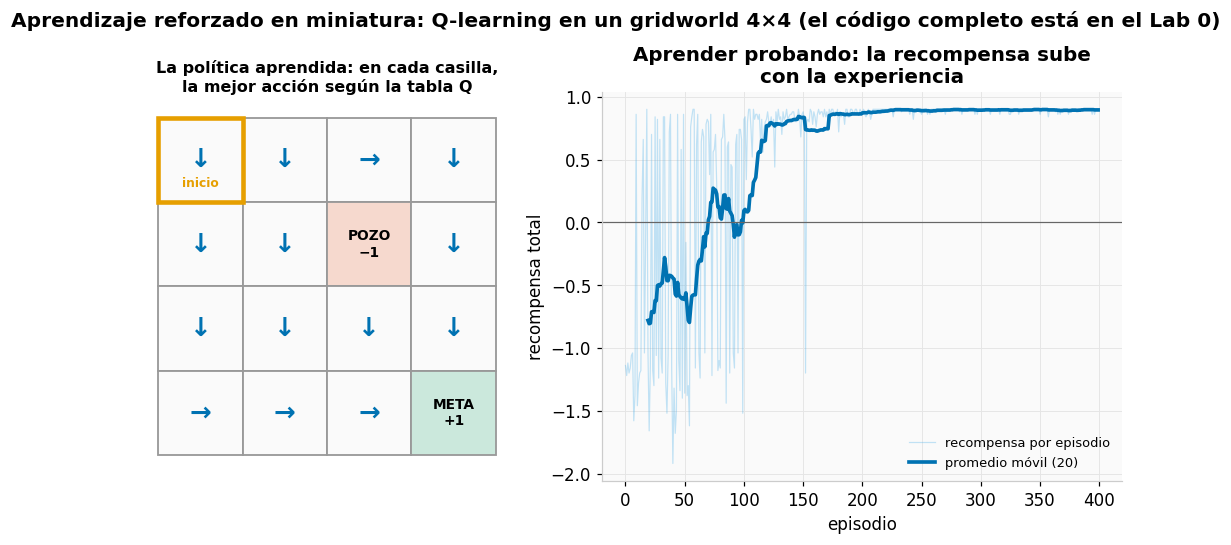
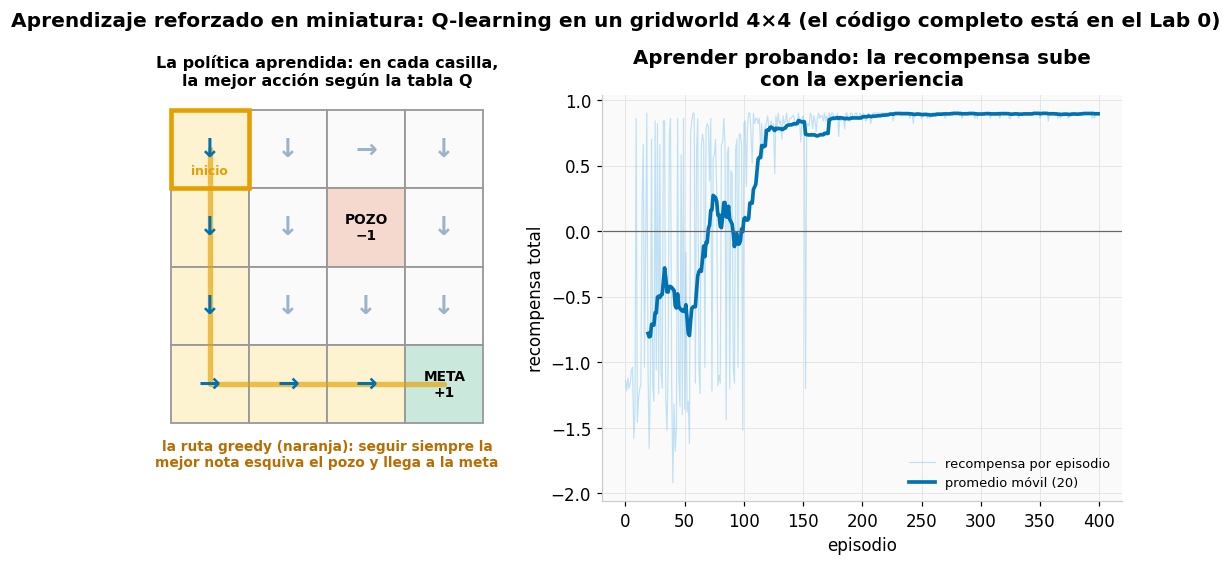
mejora: la figura de Q-learning resalta la ruta greedy en el gridworld
Las casillas que el agente pisa quedan sombreadas y conectadas en
naranja, las flechas fuera de la ruta se atenúan y una leyenda explica
que seguir la mejor nota esquiva el pozo y llega a la meta.

diff --git a/src/figuras/generar_estaticas.py b/src/figuras/generar_estaticas.py
@@ -305,7 +305,8 @@ def fig_kmeans_pca() -> None:
 
 def fig_refuerzo_qlearning() -> None:
     """Q-learning de verdad (el mismo del Lab 0) sobre un gridworld 4×4:
-    la política aprendida (flechas hacia la meta esquivando el pozo) y la
+    la política aprendida con la RUTA GREEDY resaltada (las casillas que el
+    agente pisa desde el inicio hasta la meta, esquivando el pozo) y la
     curva de recompensa por episodio subiendo a medida que aprende."""
     from matplotlib.patches import Rectangle
 
@@ -344,12 +345,25 @@ def fig_refuerzo_qlearning() -> None:
                 break
         recompensas.append(total)
 
-    fig, (ax1, ax2) = plt.subplots(1, 2, figsize=(11.5, 4.6),
+    # La ruta greedy: seguir siempre la mejor nota desde el inicio
+    # (el mismo "camino greedy" que imprime el Lab 0)
+    fila, col = 0, 0
+    camino = [(0, 0)]
+    for _ in range(20):
+        if (fila, col) in (META, POZO):
+            break
+        df, dc = ACCIONES[int(np.argmax(Q[fila, col]))]
+        fila = min(max(fila + df, 0), N - 1)
+        col = min(max(col + dc, 0), N - 1)
+        camino.append((fila, col))
+    en_ruta = set(camino)
+
+    fig, (ax1, ax2) = plt.subplots(1, 2, figsize=(11.5, 4.8),
                                    gridspec_kw={"width_ratios": [1, 1.4]})
 
     # ── El mundo y la política aprendida ──
     ax1.set_xlim(-0.2, N + 0.2)
-    ax1.set_ylim(-0.2, N + 0.2)
+    ax1.set_ylim(-1.0, N + 0.2)
     ax1.set_aspect("equal")
     ax1.axis("off")
     ax1.grid(False)
@@ -360,21 +374,32 @@ def fig_refuerzo_qlearning() -> None:
             elif (f, c) == POZO:
                 color, texto = "#F6D9CE", "POZO\n−1"
             else:
-                color, texto = "#FAFAFA", None
+                # Las casillas que el agente pisa quedan resaltadas
+                color = "#FDF3D0" if (f, c) in en_ruta else "#FAFAFA"
+                texto = None
             ax1.add_patch(Rectangle((c, N - 1 - f), 1, 1, facecolor=color,
                                     edgecolor="#999", linewidth=1.2))
             if texto:
                 ax1.text(c + 0.5, N - 1 - f + 0.5, texto, ha="center",
-                         va="center", fontsize=9, fontweight="bold")
+                         va="center", fontsize=9, fontweight="bold", zorder=5)
             elif Q[f, c].any():
                 ax1.text(c + 0.5, N - 1 - f + 0.5,
                          FLECHAS[int(np.argmax(Q[f, c]))], ha="center",
-                         va="center", fontsize=17, color=AZUL,
-                         fontweight="bold")
+                         va="center", fontsize=17,
+                         color=AZUL if (f, c) in en_ruta else "#9DB4C8",
+                         fontweight="bold", zorder=5)
+    # La ruta, conectada casilla a casilla por sus centros
+    xs_ruta = [c + 0.5 for _, c in camino]
+    ys_ruta = [N - 1 - f + 0.5 for f, _ in camino]
+    ax1.plot(xs_ruta, ys_ruta, color=NARANJA, linewidth=3.5, alpha=0.65,
+             solid_capstyle="round", zorder=3)
     ax1.add_patch(Rectangle((0, N - 1), 1, 1, facecolor="none",
                             edgecolor=NARANJA, linewidth=3))
     ax1.text(0.5, N - 0.82, "inicio", ha="center", fontsize=8,
-             color=NARANJA, fontweight="bold")
+             color=NARANJA, fontweight="bold", zorder=6)
+    ax1.text(N / 2, -0.55, "la ruta greedy (naranja): seguir siempre la\n"
+             "mejor nota esquiva el pozo y llega a la meta",
+             ha="center", fontsize=9, color="#B96D00", fontweight="bold")
     ax1.set_title("La política aprendida: en cada casilla,\nla mejor acción "
                   "según la tabla Q", fontsize=10.5)
 

diff --git a/sesiones/00-fundamentos-ml.md b/sesiones/00-fundamentos-ml.md
@@ -305,7 +305,7 @@ $$
 La nota sube de 0.50 a 0.57. Nada más: miles de correcciones pequeñas como esa
 producen la política de la figura.
 
-![Q-learning en un gridworld 4×4: la política aprendida esquiva el pozo y llega a la meta, y la curva de recompensa por episodio sube con la experiencia](../docs/assets/figuras/refuerzo_qlearning.png)
+![Q-learning en un gridworld 4×4: la política aprendida con la ruta greedy resaltada en naranja — esquiva el pozo y llega a la meta — y la curva de recompensa por episodio subiendo con la experiencia](../docs/assets/figuras/refuerzo_qlearning.png)
 
 El dilema central del paradigma es **explorar vs explotar**: probar acciones nuevas
 (que podrían ser mejores) o repetir la que ya funciona. El Lab 0 lo implementa con